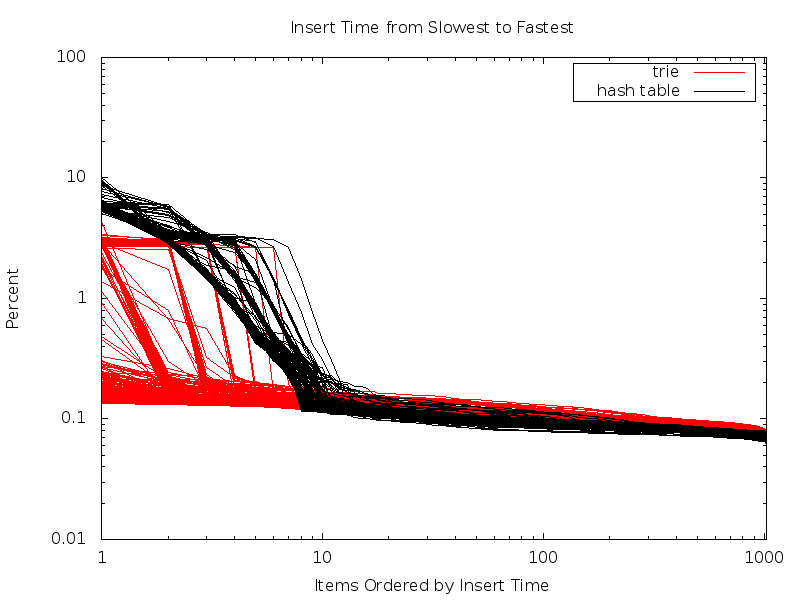
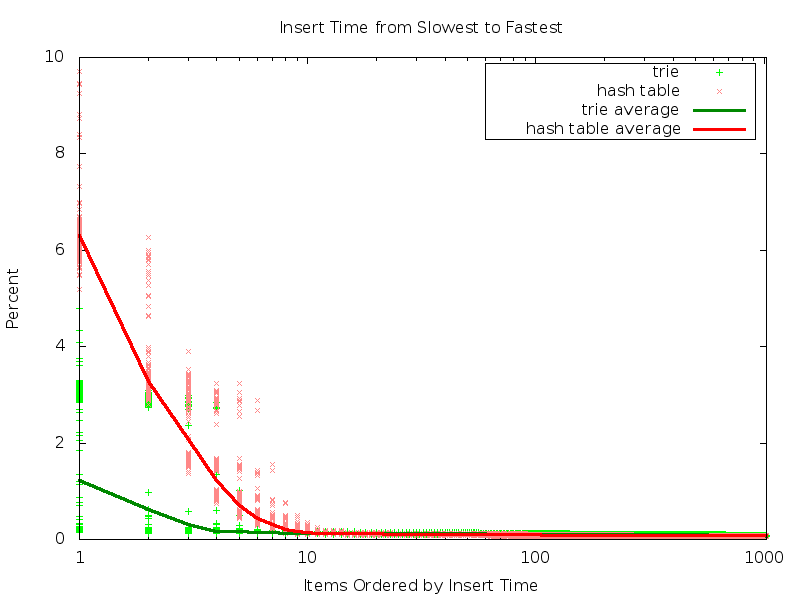
add gini average

diff --git a/insert-gini.cc b/insert-gini.cc
@@ -31,7 +31,7 @@ std::vector<std::vector<double> > test(const unsigned size, const unsigned sampl
   return ans;
 }
 
-void print_test(std::vector<std::vector<double> > x) {
+void print_test(const std::vector<std::vector<double> >& x) {
   for (int i = 0; i < x.size(); i += 2) {
     for (int j = 0; j < x[i].size(); ++j) {
       std::cout << (x[i].size() - j) << '\t' << x[i][j] << std::endl;
@@ -42,16 +42,37 @@ void print_test(std::vector<std::vector<double> > x) {
   }
 }
 
+void print_avg(const std::vector<std::vector<double> >& x) {
+  std::vector<double> ans(x[0].size(), 0.0);
+  for (const auto& y : x) {
+    for (int i = 0; i < y.size(); ++i) {
+      ans[i] += y[i];
+    }
+  }
+  for (int i = 0; i < ans.size(); ++i) {
+    std::cout << (ans.size() - i) << '\t' << ans[i]/x.size() << std::endl;
+  }
+}
+
 int main(int argc, char ** argv) {
-  assert (4 == argc);
-  const auto size = read<unsigned>(argv[2]);
-  const auto samples = read<unsigned>(argv[3]);
-  const std::string container_type_string = argv[1];
-  
+  assert (5 == argc);
+  const auto size = read<unsigned>(argv[3]);
+  const auto samples = read<unsigned>(argv[4]);
+  const std::string container_type_string = argv[2]; 
+  const std::string plot_type = argv[1];
+ 
+  void (*f)(const std::vector<std::vector<double> >&) = nullptr;
+    
+  if ("all" == plot_type) {
+    f = print_test;
+  } else if ("avg" == plot_type) {
+    f = print_avg;
+  }
+ 
   if ("std::set" == container_type_string) {
-    print_test(test<std::set<sample_type> >(size, samples));
+    f(test<std::set<sample_type> >(size, samples));
   } else if ("std::unordered_set" == container_type_string) {
-    print_test(test<std::unordered_set<sample_type> >(size, samples));
+    f(test<std::unordered_set<sample_type> >(size, samples));
   }
 
 }

diff --git a/README.md b/README.md
@@ -11,3 +11,6 @@ The trie is a little bit slower, but it is more consistent.
 If we order the insert times from slowest to fastest, it's clear that slow trie operations are usually much faster than slow hash table operations:
 
 ![](insert-gini.png "Insert Times From Slowest to Fastest")
+
+Here the slowest insert is placed at 1 on the x axis, the second slowest at 2, and so on.
+For this experiment, the slowest hash table inserts take a large amount of time, when compared to the total time to build the hash table.
